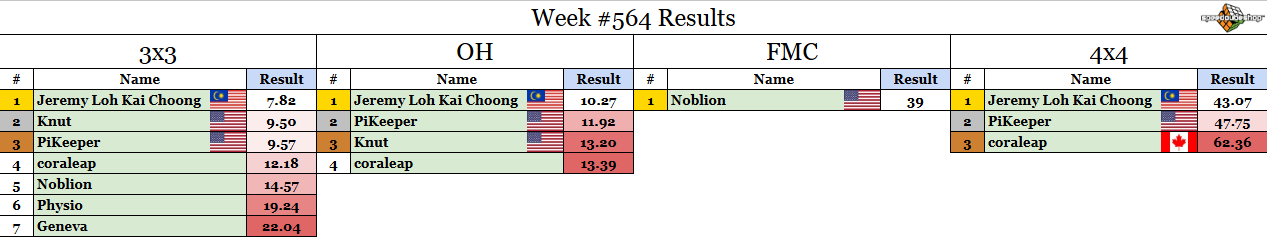
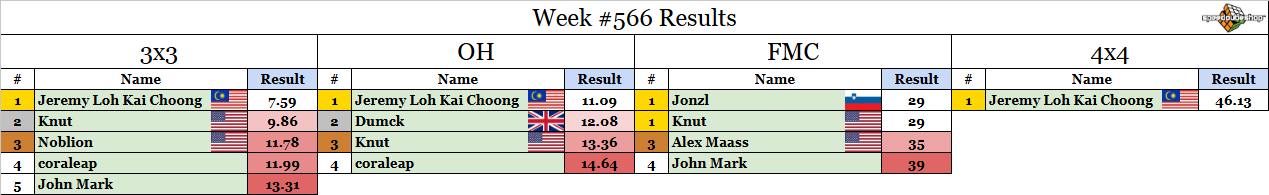
weekly comp update

diff --git a/src/weeklycomp/post.md b/src/weeklycomp/post.md
@@ -1,9 +1,9 @@
-## Weekly Competition #565 
+## Weekly Competition #566 
  
 This weekly competition is proudly sponsored by SpeedCubeShop.com 
 One competitor will be selected at random to receive a $5 SCS gift card! 
  
-Congrats to last week's winner by a random draw: **coraleap**. DM me for the prize. 
+Congrats to last week's winner by a random draw: **Noblion**. DM me for the prize. 
  
 Check whether or not you participated this week yet at [https://bit.ly/RMSWeeklyCompSummary](https://bit.ly/RMSWeeklyCompSummary)  
  
@@ -17,28 +17,31 @@ Check whether or not you participated this week yet at [https://bit.ly/RMSWeekly
  7. The comp runs until Sunday 5pm Eastern time (more or less). Enter your times using the forms links below. 
  
 ### 3x3: [Submission Form](https://forms.gle/H5xoCWvGKnZ92fQt8) 
- 1. R B2 F2 L' F2 L2 R' U2 R D2 F L2 D F D2 U B D R2 
- 2. F2 R B' U' R2 L' D' R2 L2 F2 D2 B' R2 U2 F' L2 F R2 F' L' B 
- 3. D2 F' R2 U2 F2 L2 F2 U2 R' D2 L2 U2 L' F2 U' F' D R' U L2 F 
- 4. R2 U' L2 F U' D2 R D' R' D2 F2 B2 L D2 F2 L U2 B2 L' B 
- 5. R2 F L' F B2 R U2 D F D R2 L2 U' F2 B2 R2 D' L2 U' 
+ 1. F' D R2 U' B2 R2 D L2 U R2 D F2 R B2 U B D2 L2 U' F 
+ 2. L U2 B' F2 R2 D F2 L2 D' B2 R2 D U R' F L' D' R2 U' B 
+ 3. U2 B2 D2 L' F2 R' U2 R' D2 L F D' F2 L B2 D2 B R' F' U' 
+ 4. R' U' F2 L2 U' R2 U' B2 U' B2 U' F2 R2 B' R U R' D' R B L' 
+ 5. U2 B' D2 L2 U2 B' D2 F2 U2 R2 B' U' L B F2 R2 U F' R B 
  
 ### OH: [Submission Form](https://forms.gle/UgRLW3K1d5KkMGfM9) 
- 1. F L F L' U' B L' B2 R D2 R2 U2 F2 R2 B L2 F R2 F' 
- 2. U L2 U' F2 U' B2 L2 U B2 U B2 R2 F' D R' F L2 F' D B' U2 
- 3. F' U' D2 F2 R' F L U F2 U' F2 R2 D L2 F2 L2 U2 F2 L' F 
- 4. F2 L' U2 F' U2 D R F2 D2 L2 F' R2 F' B R2 B' D2 L2 U L F2 
- 5. L U2 B' U2 B' U2 F U2 F2 D2 L F' L' U2 F D U R 
+ 1. F2 U2 B2 U' B2 D B D R U2 L2 U2 F' R2 F' U2 B' U2 F L2 
+ 2. B2 U' L2 D' B2 R2 B2 L2 U R2 F2 D R' U B D R D F2 U2 
+ 3. R F' D' L' B U2 F D' L U2 F2 B2 U L2 U2 D' R2 D2 F2 R2 
+ 4. F' L' U' R D R B' U' R F2 D2 R L F2 D2 R F2 B2 D2 
+ 5. R2 D2 U' B2 U L2 U R2 U' B2 F2 R2 B L' F2 U B' F2 R' D' 
  
 ### FMC: [Submission Form](https://forms.gle/1P9VUgZmA1pibwvL9) 
- 1. R' U' F B2 L2 D2 R2 D2 B' R2 F' R2 F2 U2 B D U B' U2 L D L D' R' U' F 
+ 1. R' U' F B F R2 D2 R2 B R2 U2 F D2 F R' D' F L F R B2 D R2 B2 R' U' F 
  
 ### 4x4: [Submission Form](https://forms.gle/bHNjncvEcPvFWBP2A) 
- 1. F2 U2 L2 U2 R2 B2 L' U2 F2 R' D B L2 U R2 B' R' U' L' F D Fw2 Rw2 B2 R Fw2 L Uw2 F2 U2 R U Fw2 D' Fw' L2 F R2 U' Uw' Fw R2 Rw Fw Rw F' R 
- 2. F D' R2 F2 D L2 B2 R2 F2 U2 R L2 F' R2 U' L U D L' D2 Rw2 F' D Rw2 D' R2 Uw2 F U2 L2 B' L' U L Rw B2 D Fw2 Uw F2 B Fw2 Uw' Fw' D 
- 3. D' F2 U2 L2 U2 L2 B2 D F2 D' F2 L B' U2 F2 L2 U L U D' Rw2 Fw2 D' R' L2 D2 B2 L' Uw2 R F' D2 L2 Fw D Rw' Uw' F' Rw2 U' Fw L U 
- 4. F R2 U' R2 B' D2 F' U2 F2 L2 F D2 B R L2 F2 U' B' R' U D Rw2 B' R2 Rw2 Uw2 F2 U' R2 Fw2 L2 D' R B2 D' R Rw Uw B2 Uw2 Fw' D Fw' Uw' 
- 5. F' U2 R2 F2 B2 D2 L D2 R2 B2 R' U2 D2 F' R L2 D' F U' B Uw2 F Fw2 L' Rw2 Uw2 L2 B R2 L' Uw2 L2 B2 D' Uw' L U2 Rw2 Uw2 Fw' Rw' B2 Rw Uw' L2 Fw' 
+ 1. B' D' F L' U2 L2 D2 B2 L2 B2 U2 B' D B R' L U D2 Uw2 Rw2 F U2 F' Rw2 F' R' U2 Fw2 L' Rw2 U' Uw B D' F' U Uw2 Fw Rw U2 D Fw' Rw2 Uw2 
+ 2. B2 R2 U2 B2 R2 U R2 U L2 D' B2 D' B' R2 L F U2 D F' U2 R Uw2 Fw2 R F' R2 F2 Uw2 F' R' L' F R2 Uw' Fw2 Uw R2 U L Rw' F Uw Rw2 B D' B2 
+ 3. L2 D2 R' D2 R' B2 L B2 R' U2 F2 R2 U F' R F2 R' L2 F B' U' Fw2 R' F R2 L' Rw2 Fw2 R Uw2 Rw2 F' D B' Uw' R2 U R' Rw U Fw Uw' L Uw2 B 
+ 4. L F' U' D' R' F L D B' L2 B D2 B R2 F2 R2 U2 F D2 L U' Uw2 R' Rw2 Fw2 Uw2 F' B' D2 R D2 F' Uw2 L U Uw' B2 Rw' B2 Rw' U L2 Uw' Fw L2 
+ 5. D' R2 U' B2 U2 F2 L2 B2 D R2 D' L' B' U F U' F L2 D' L Fw2 D L Uw2 F2 D2 R U L' Rw2 Fw' Rw2 Fw' L2 B U B' R Rw' Uw F' Fw2 Rw' 
  
 ### Winning FMC solutions from last week: 
- 1. Noblion, 39 moves: [SOLUTION](https://bit.ly/45Ajin6)
+ 1. Jonzl, 29 moves: [SOLUTION](https://bit.ly/4b01BRL) 
+ 1. Knut, 29 moves: [SOLUTION](https://bit.ly/45Ptvw6) 
+ 3. Alex Maass, 35 moves: [SOLUTION](https://bit.ly/3LFOP0g) 
+ 
